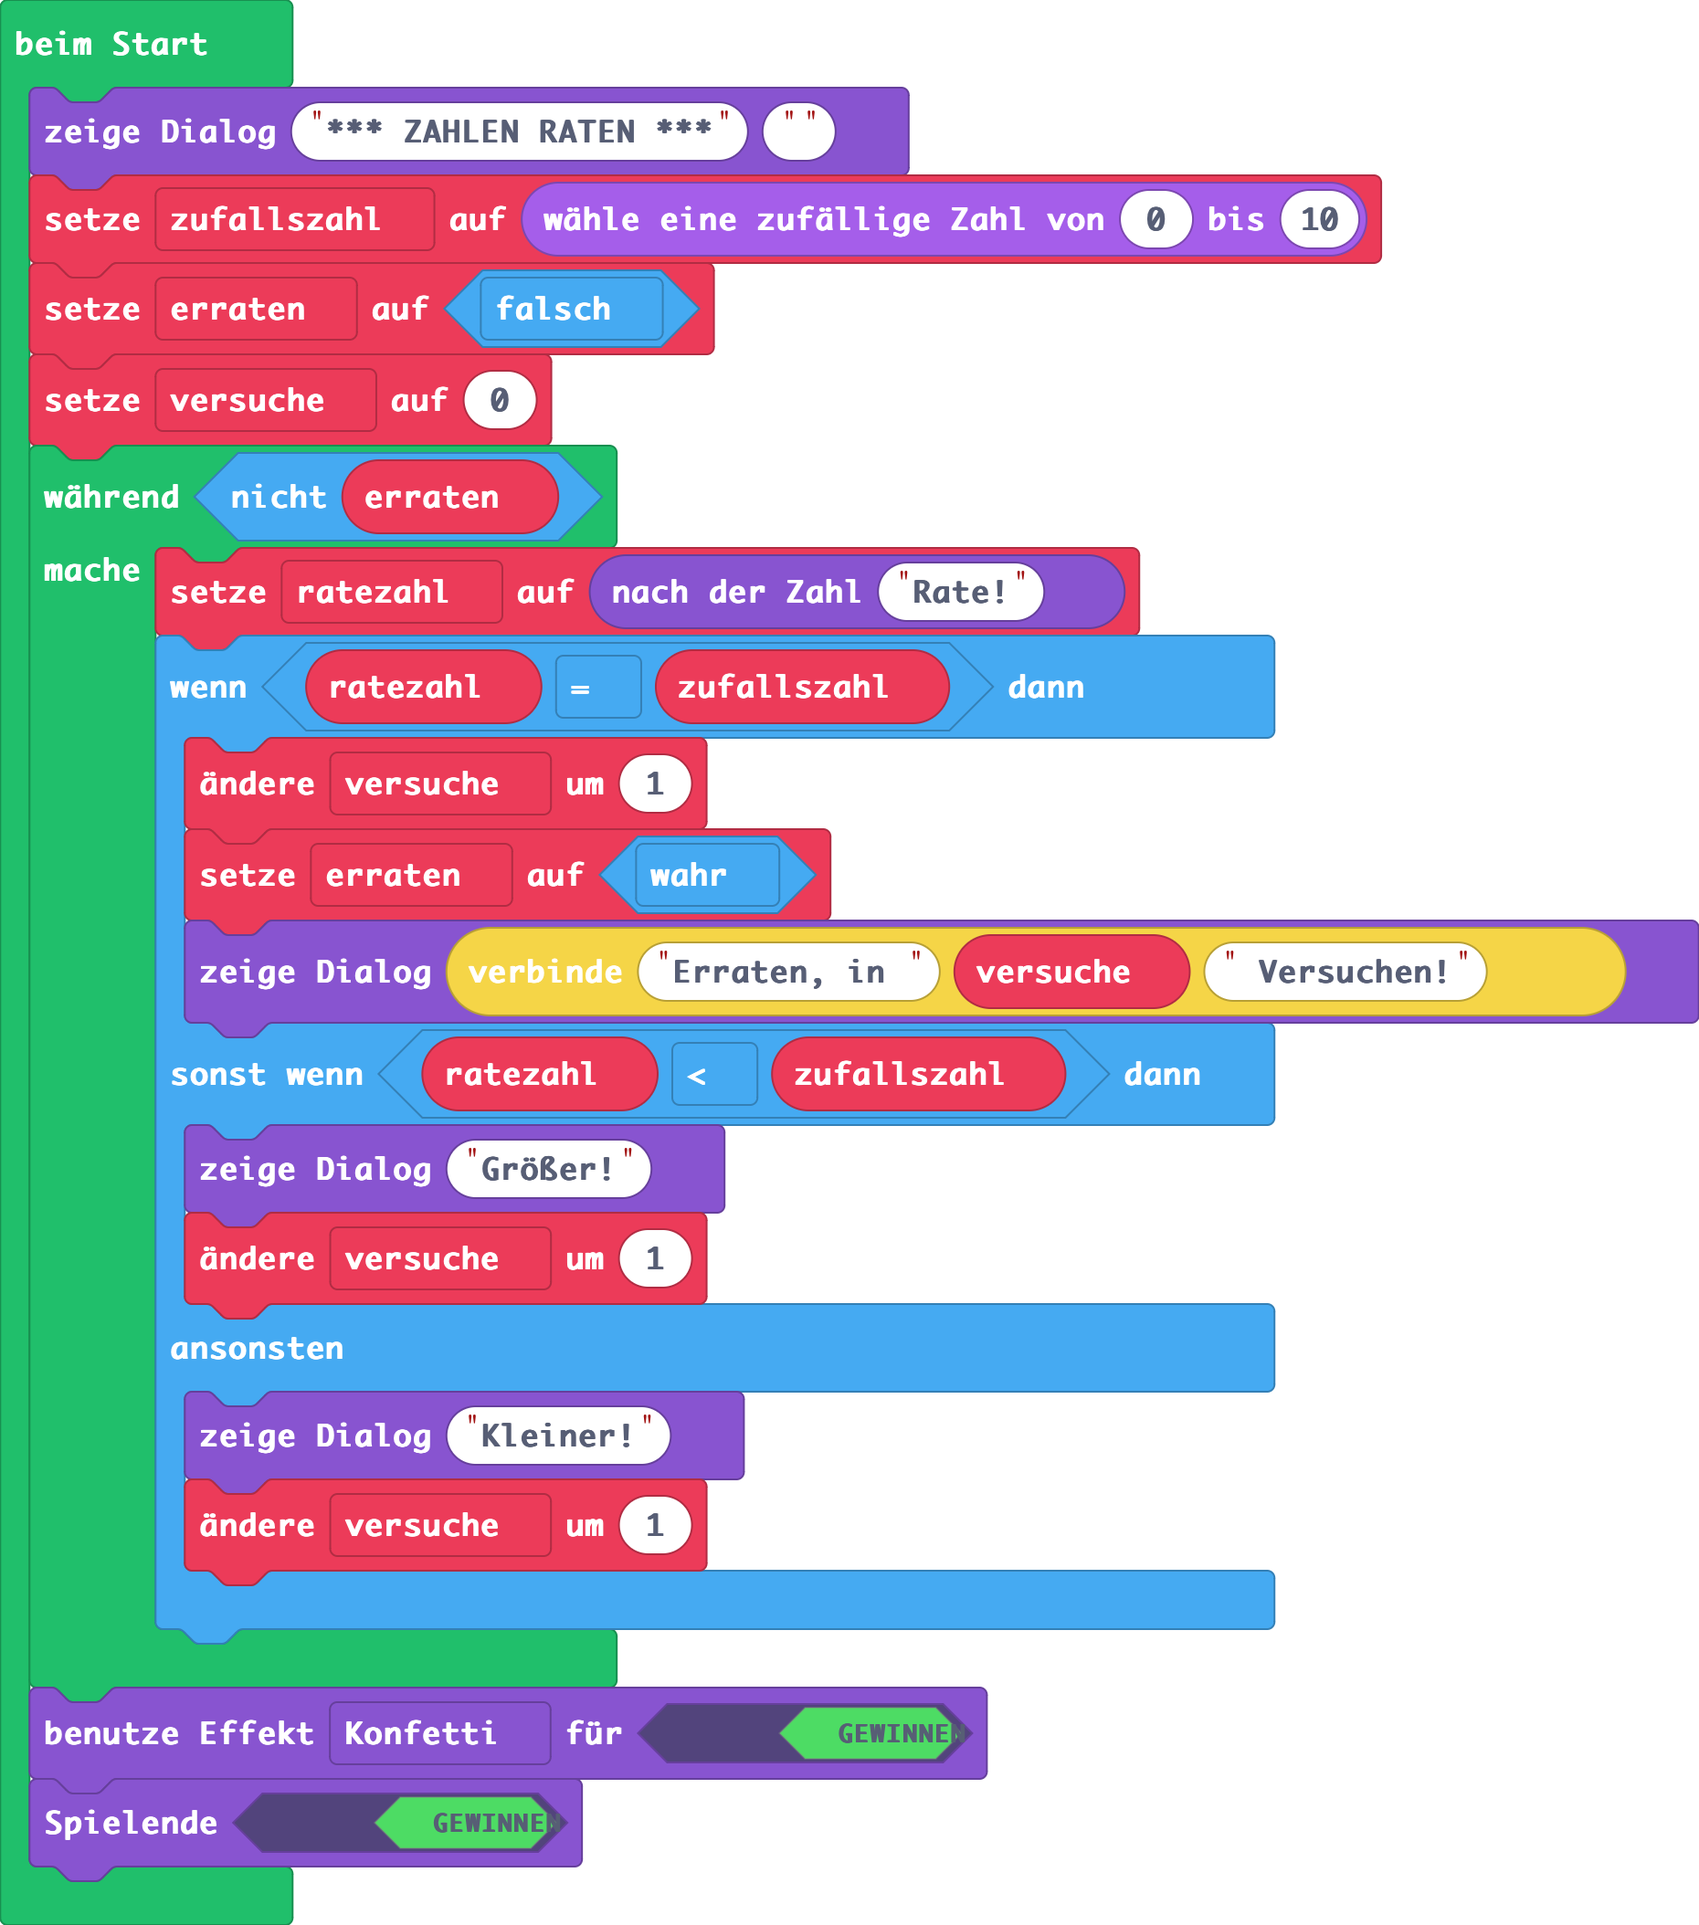
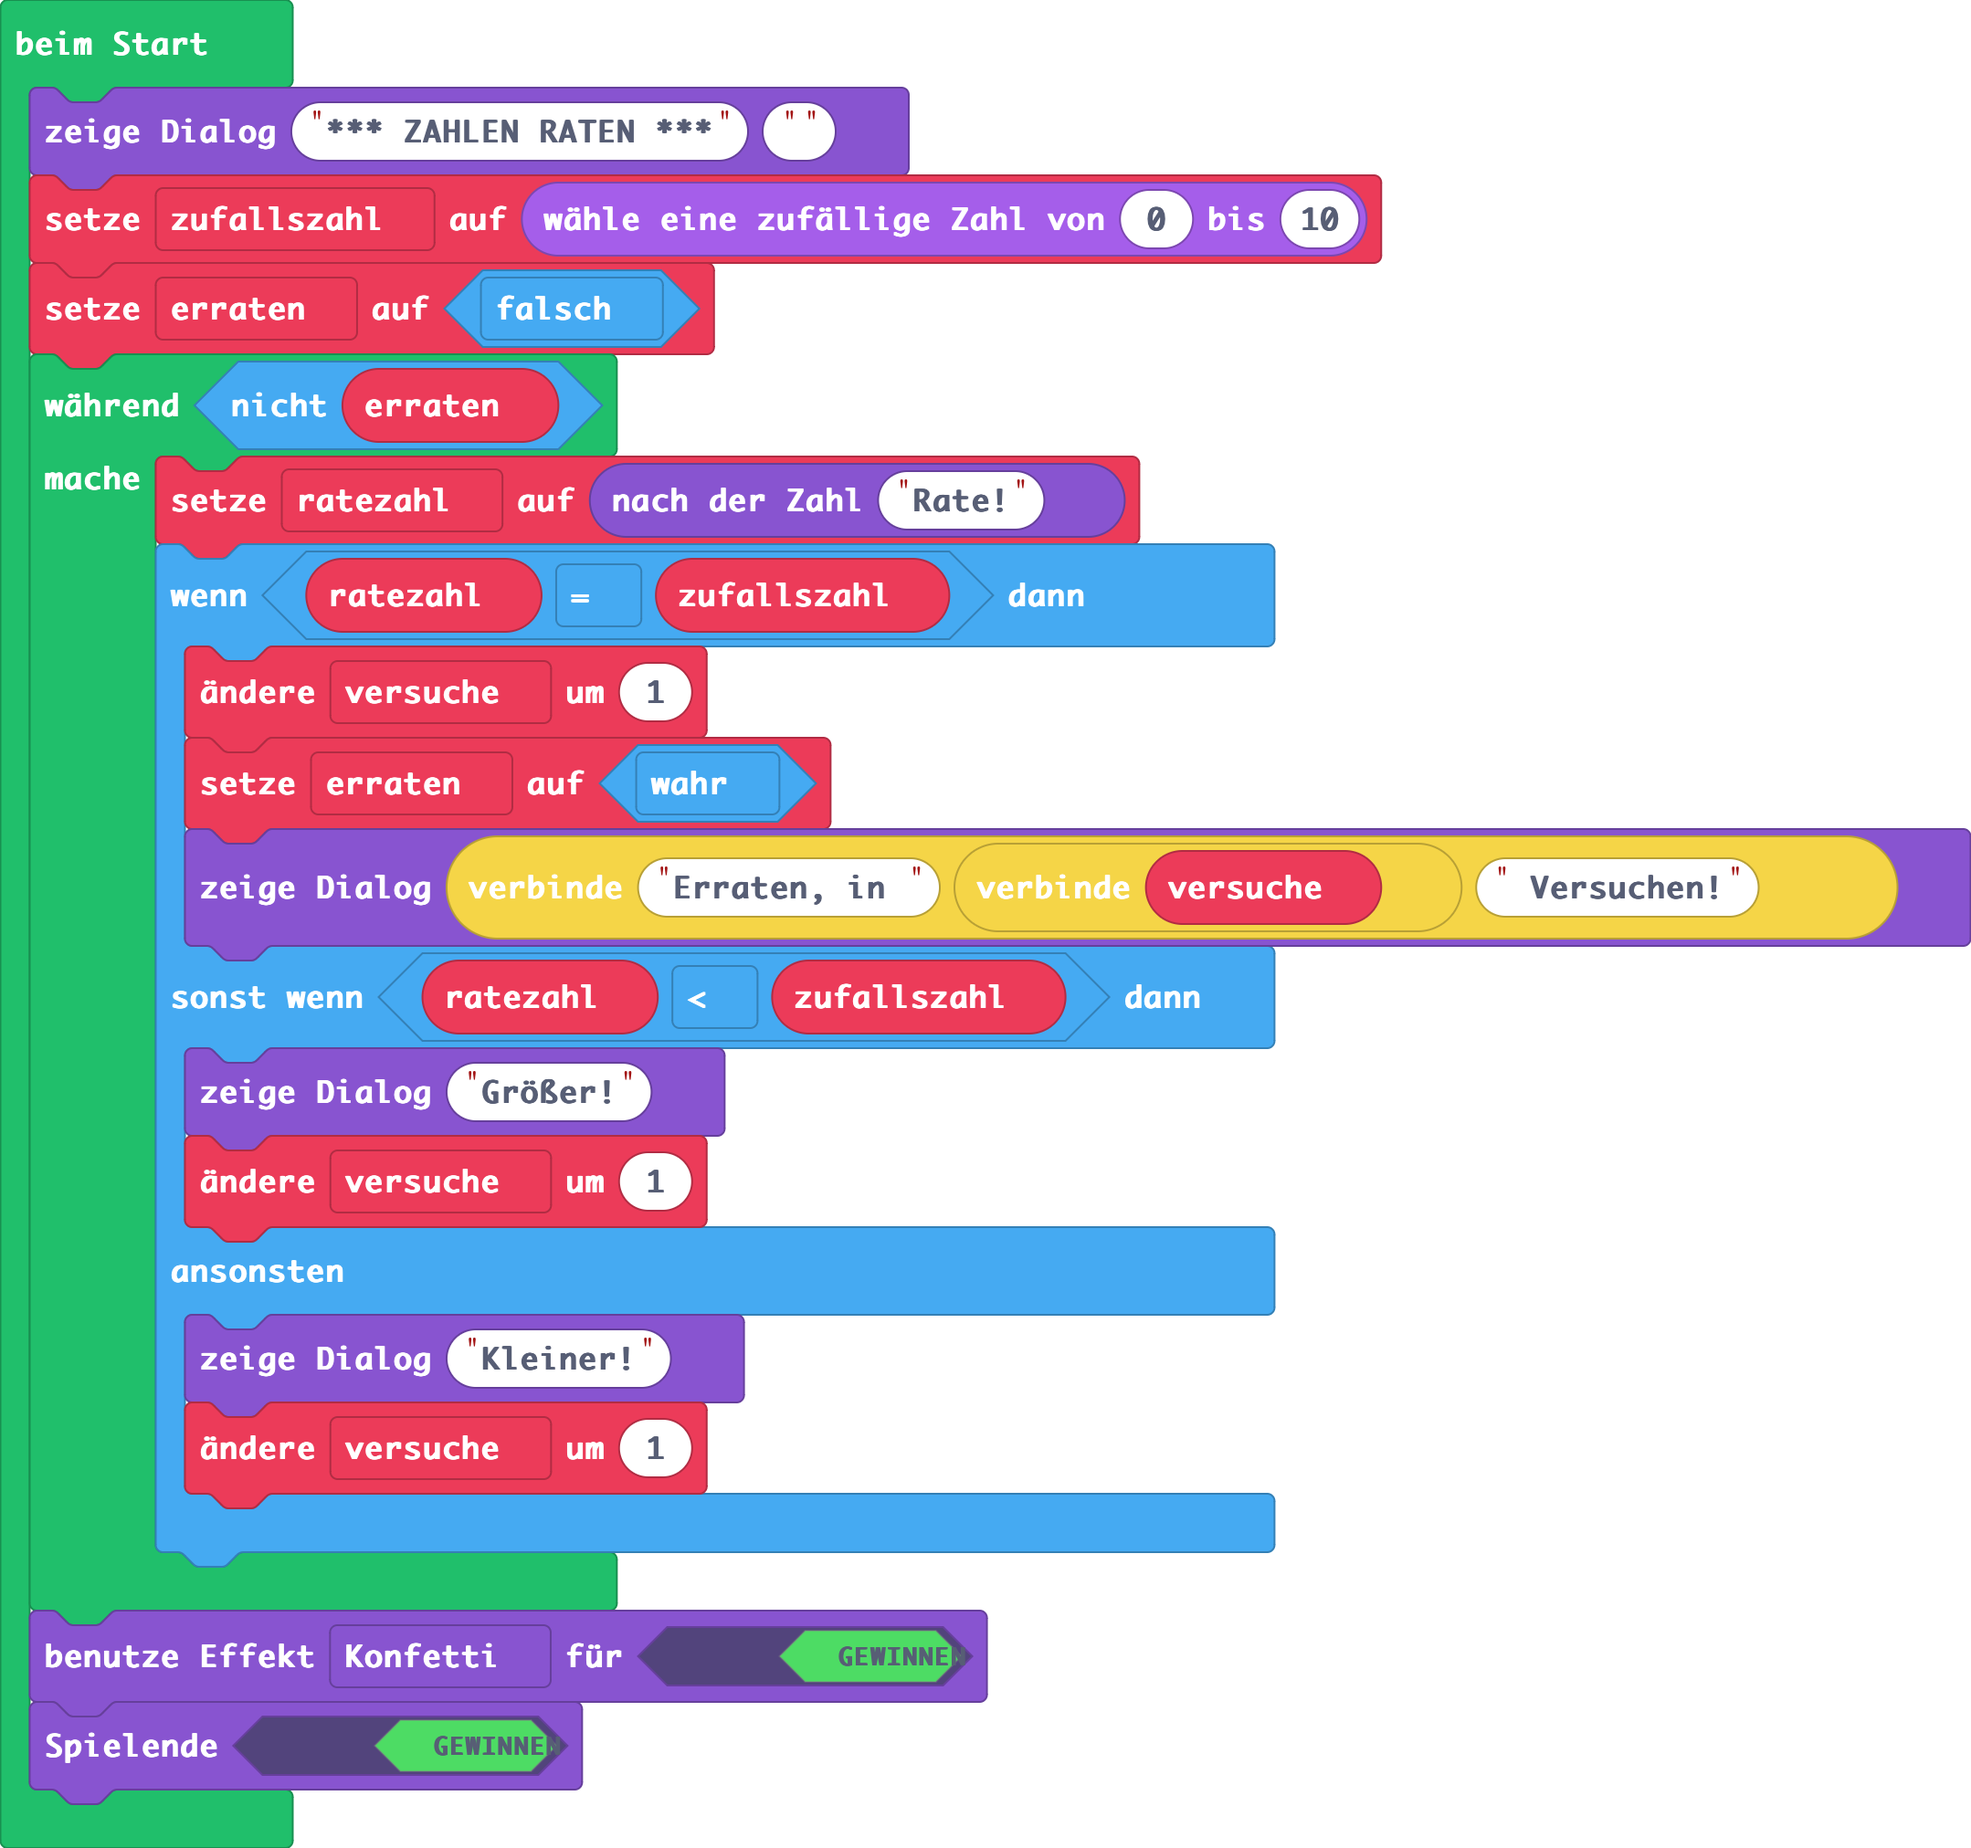
Zahlenraten refactored

diff --git a/VO-Teil-1/GrundkonzepteProgrammierung/Zahlenraten/README.md b/VO-Teil-1/GrundkonzepteProgrammierung/Zahlenraten/README.md
@@ -101,17 +101,17 @@ print('Auf Wiedersehen!')
 
 ### Python Code (MakeCode Arcade)
 ```python
+versuche = 0
 ratezahl = 0
 game.splash("*** ZAHLEN RATEN ***", "")
 zufallszahl = randint(0, 10)
 erraten = False
-versuche = 0
 while not (erraten):
     ratezahl = game.ask_for_number("Rate!")
     if ratezahl == zufallszahl:
         versuche += 1
         erraten = True
-        game.splash("Erraten, in " + str(versuche) + " Versuchen!")
+        game.splash("Erraten, in " + ("" + str(versuche)) + " Versuchen!")
     elif ratezahl < zufallszahl:
         game.splash("Größer!")
         versuche += 1
@@ -120,7 +120,6 @@ while not (erraten):
         versuche += 1
 game.set_game_over_effect(True, effects.confetti)
 game.game_over(True)
-
 ```
 ## Lösung als Spiel mit Microsoft MakeCode micro:bit
 
